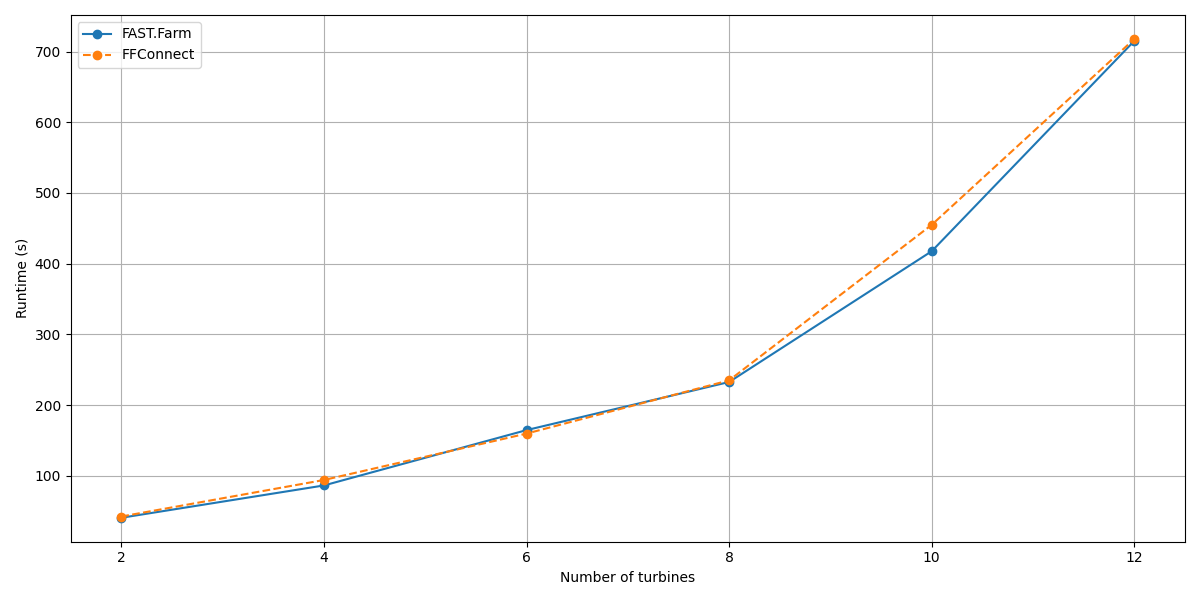
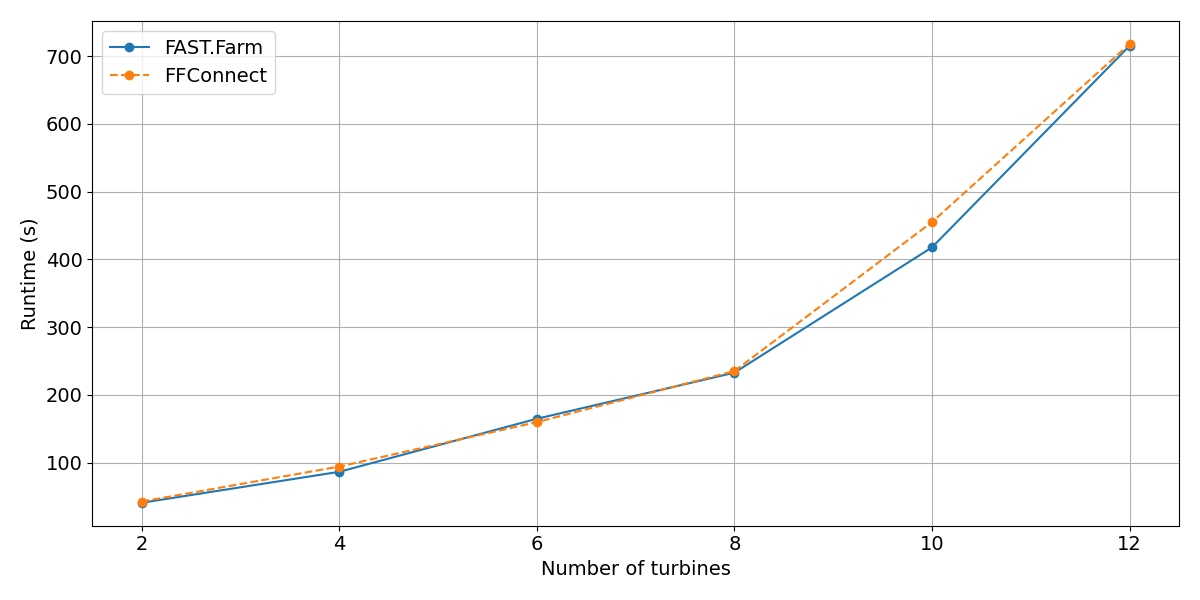
Update

diff --git a/results/plot_timing_comparison.py b/results/plot_timing_comparison.py
@@ -4,6 +4,8 @@ import os
 
 import matplotlib.pyplot as plt
 
+plt.rcParams.update({"font.size": 14})
+
 RESULTS_DIR = os.path.dirname(os.path.abspath(__file__))
 
 
